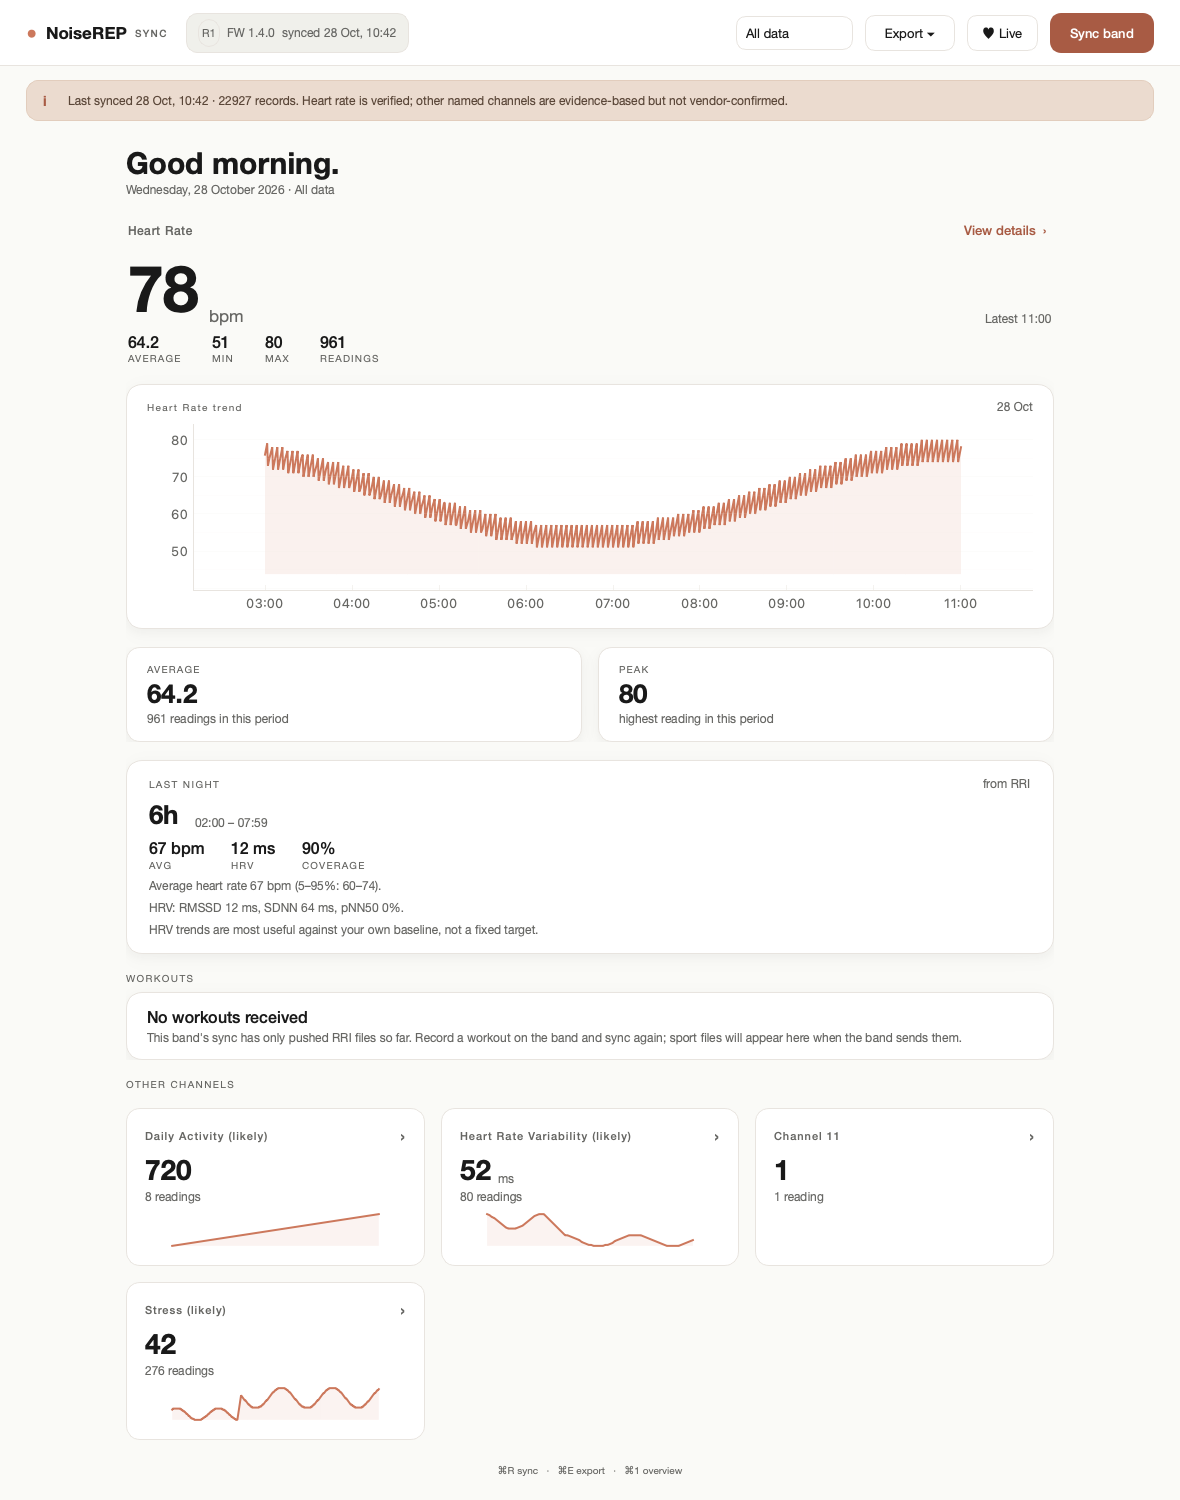
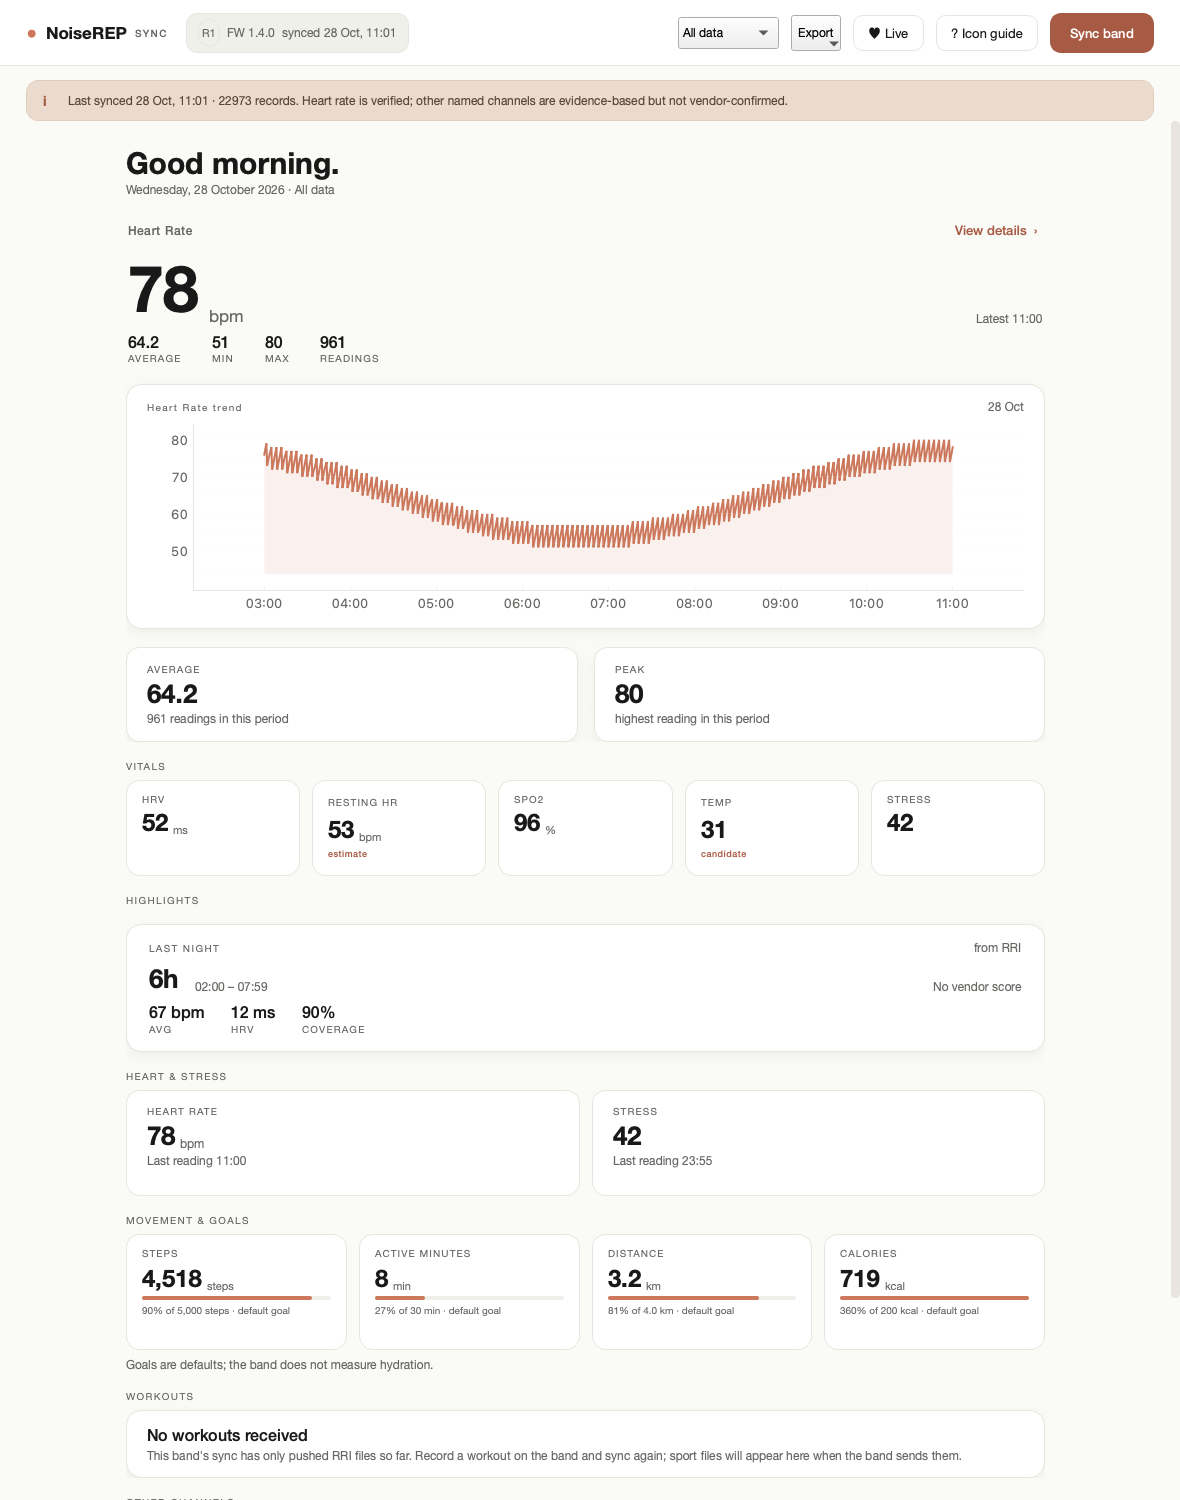
docs: refresh README screenshots with vitals and movement

diff --git a/README.md b/README.md
@@ -10,7 +10,7 @@
   <img alt="License MIT" src="https://img.shields.io/badge/license-MIT-CC785C">
   <img alt="Platform macOS and Linux" src="https://img.shields.io/badge/platform-macOS%20%7C%20Linux-CC785C">
   <img alt="Status alpha" src="https://img.shields.io/badge/status-alpha-D4A27F">
-  <img alt="Tests" src="https://img.shields.io/badge/tests-177%20passing-879A77">
+  <img alt="Tests" src="https://img.shields.io/badge/tests-216%20passing-879A77">
 </p>
 
 noiserep connects to the **Noise REP** fitness band over BLE, reads the history it
@@ -26,7 +26,7 @@ rate, a CLI, and CSV/JSON exports. No account. No cloud. No vendor app.
 
 | Today | Sleep & recovery |
 |---|---|
-| ![Today overview with heart-rate hero, trend chart, Last Night card, workouts and other channels](docs/images/overview.png) | ![Sleep detail with heart-rate timeline, HRV stats and an explicit stages-unavailable panel](docs/images/sleep.png) |
+| ![Today overview with vitals cards, heart-rate trend, Last Night highlights, heart/stress, movement goals and workouts](docs/images/overview.png) | ![Sleep detail with heart-rate timeline, HRV stats and an explicit stages-unavailable panel](docs/images/sleep.png) |
 
 | All channels | Live menu-bar states |
 |---|---|
@@ -40,9 +40,11 @@ The screenshots are generated from **synthetic data** by
 - **Historical sync.** Scan by advertised name (`Noise_REP_*`), fetch device
   info, the data index, the `113`/`115` series and the pushed `4097` activity
   files. Chunking, start/end acks and auto-discovery work live.
-- **A clean desktop app.** A health-style overview, per-channel charts, date
-  ranges, sleep/rest detail, CSV/JSON export and a **♥ Live** button for the
-  menu bar.
+- **A clean desktop app.** A health-style overview with **Vitals** (HRV, resting
+  HR estimate, SpO2, temperature candidate, stress), **Highlights** (last
+  night), **Heart & stress**, **Movement & goals** (steps, active minutes,
+  distance, calories), per-channel charts, date ranges, sleep detail, CSV/JSON
+  export and a **♥ Live** button for the menu bar.
 - **Live heart rate in the menu bar.** `♥ 72` when worn, `♥ ~` when the band is
   off-wrist, `♥ —` when disconnected. It tries the realtime stream, falls back
   to the confirmed `113` series, and retries a failed connection every 60 s
